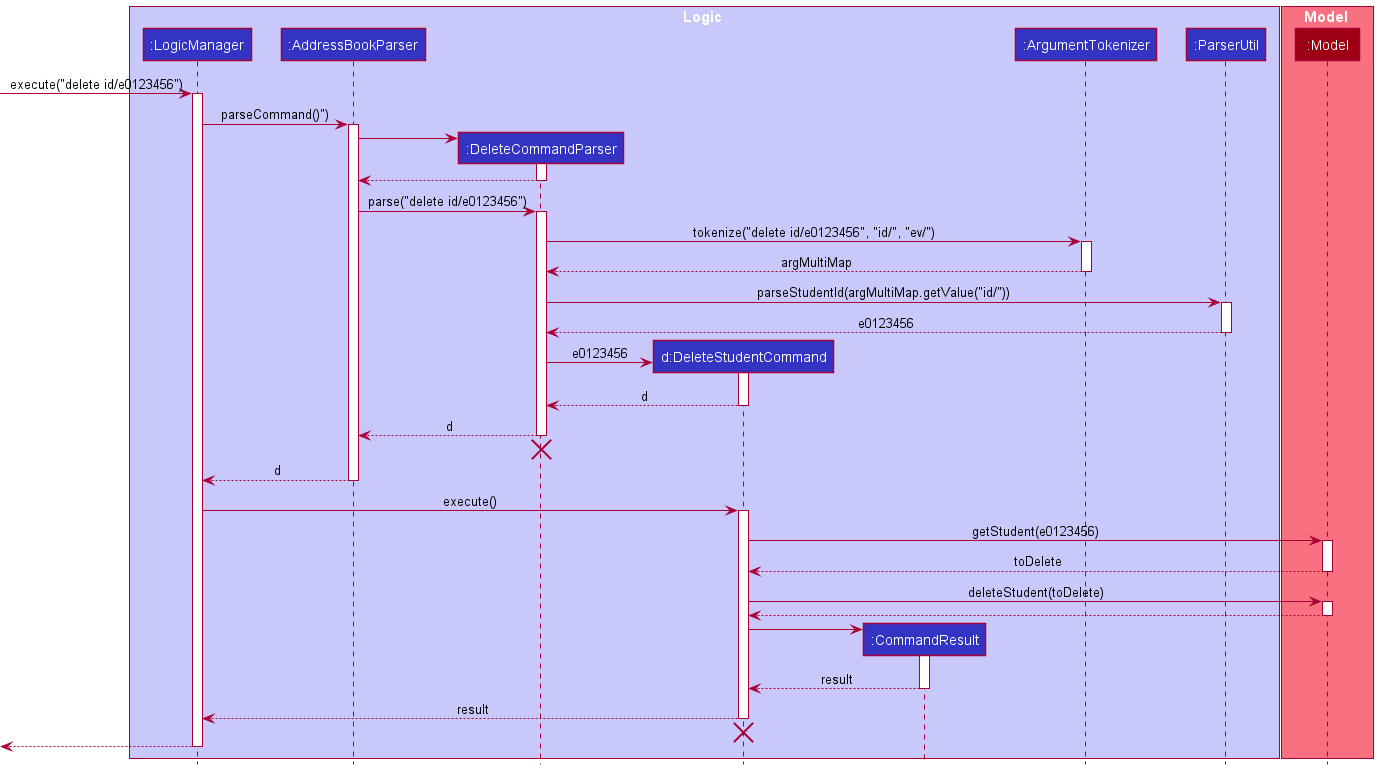
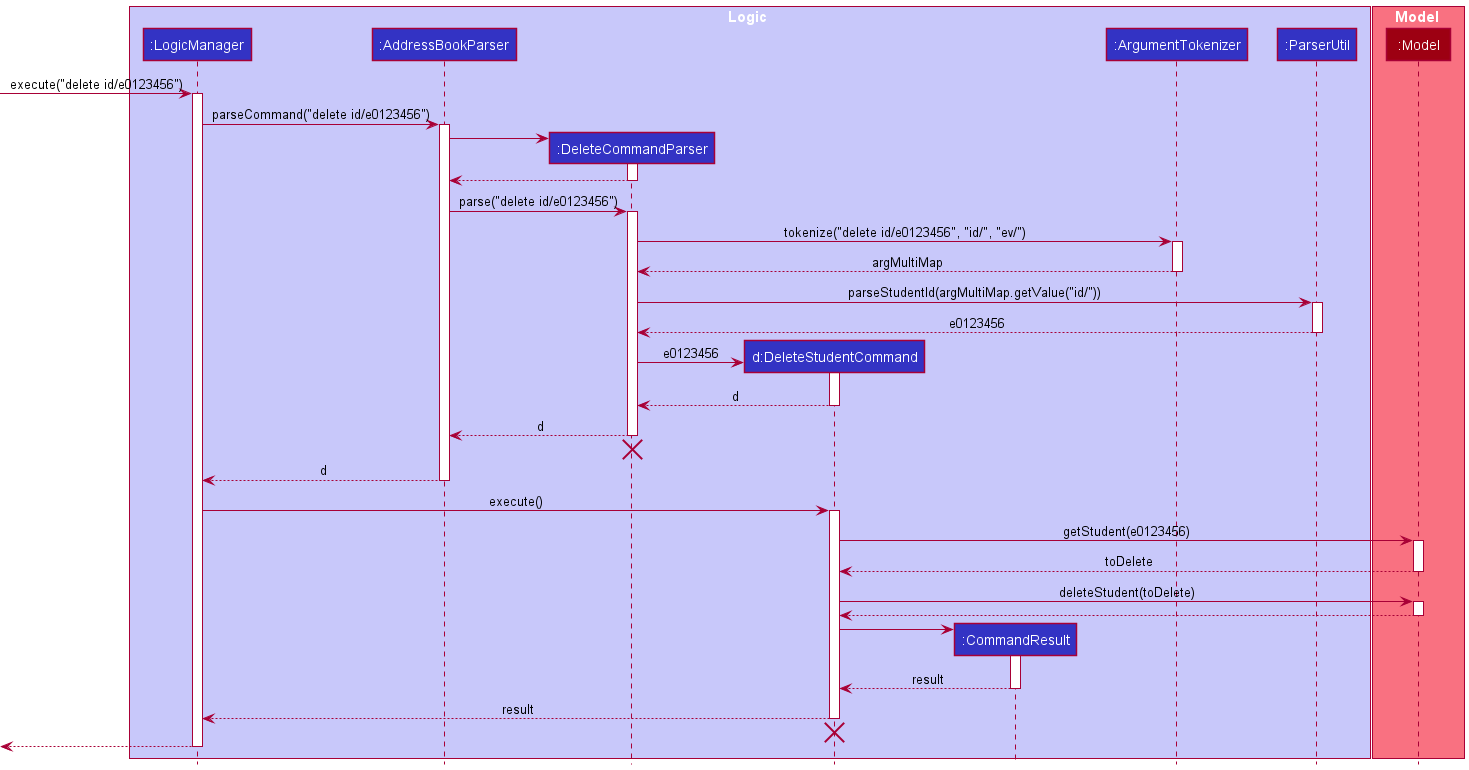
Update DG diagrams and add create feature implementation details

diff --git a/docs/DeveloperGuide.md b/docs/DeveloperGuide.md
@@ -72,7 +72,8 @@ The rest of the App consists of four components.
 
 The *Sequence Diagram* below shows how the components interact with each other for the scenario where the user issues the command `delete id/e1234567`.
 
-<img src="images/ArchitectureSequenceDiagram.png" width="574" />
+![Architecture Sequence Diagram](images/ArchitectureSequenceDiagram.png)
+_Sequence diagram of execution of delete id/e1234567_
 
 Each of the four main components (also shown in the diagram above),
 
@@ -123,7 +124,7 @@ How the `Logic` component works:
 
 The Sequence Diagram below illustrates the interactions within the `Logic` component for the `execute("delete s/e0123456")` API call.
 
-<img src="images/DeleteSequenceDiagram.png" width="600"/>
+![Delete Sequence Diagram](images/DeleteSequenceDiagram.png)
 
 <div markdown="span" class="alert alert-info">:information_source: **Note:** The lifeline for `DeleteCommandParser` should end at the destroy marker (X) but due to a limitation of PlantUML, the lifeline reaches the end of diagram.
 </div>
@@ -139,8 +140,7 @@ How the parsing works:
 ### Model component
 **API** : [`Model.java`](https://github.com/se-edu/addressbook-level3/tree/master/src/main/java/seedu/address/model/Model.java)
 
-<img src="images/ModelClassDiagram.png" width="600" />
-
+![Model Class Diagram](images/ModelClassDiagram.png)
 
 The `Model` component,
 
@@ -152,16 +152,6 @@ The `Model` component,
 * the UI is bound to these lists so the UI can automatically update when the data in either list changes.
 * stores a `UserPref` object that represents the user’s preferences. This is exposed to the outside as a `ReadOnlyUserPref` objects.
 * does not depend on any of the other three components (as the `Model` represents data entities of the domain, they should make sense on their own without depending on other components)
-
-**<<<Check if this part can delete**
-<div markdown="span" class="alert alert-info">:information_source: **Note:** An alternative (arguably, a more OOP) model is given below. It has a `Tag` list in the `AddressBook`, which `Student` references. This allows `AddressBook` to only require one `Tag` object per unique tag, instead of each `Student` needing their own `Tag` objects.<br>
-
-<img src="images/BetterModelClassDiagram.png" width="450" />
-
-**>>>**
-
-</div>
-
 
 ### Storage component
 
@@ -184,8 +174,62 @@ Classes used by multiple components are in the `nustracker.commons` package.
 
 This section describes some noteworthy details on how certain features are implemented.
 
+### Creating an event
+This is a feature to allow the user to create an event. Currently, each event has a name, date, time, participant list and blacklist. Users can specify the name, date and time of an event using the `create` command.
 
-**<<< Check if we are going to keep this `undo` feature >>>**
+This feature comes with the following classes:
+- nustracker.logic.commands.CreateCommand
+- nustracker.logic.parser.CreateCommandParser
+- nustracker.model.event.*
+
+The following sequence diagram shows how the create operation works:<br>
+
+![CreateSequenceDiagram](images/CreateSequenceDiagram.png)
+_Sequence diagram for creating an event_<br>
+
+* Note that LogicManager is called using execute("create n/Orientation d/08-01-2021 t/1000"). This information was truncated to reduce clutter in diagram.<br>
+* The event is only added if there are no other events in the model that have the same name. This is checked using the `hasEvent` method.
+
+The following sequence diagram shows how a create operation gets its arguments from the prefixes:
+
+![CreateParseArguments](images/CreateParseArguments.png)
+_Sequence diagram for parsing a create command's arguments_
+
+AddressBook contains a UniqueEventList to hold a list of events. UniqueEventList implements the [Iterable](https://docs.oracle.com/en/java/javase/11/docs/api/java.base/java/lang/Iterable.html) interface and stores events in an [ObservableList](https://docs.oracle.com/javase/10/docs/api/javafx/collections/ObservableList.html).
+
+The following sequence diagram shows how the Model adds an event to the AddressBook:
+
+![AddEventToStorageSequenceDiagram](images/AddEventToStorageSequenceDiagram.png) <br>
+_Sequence diagram for adding an event to AddressBook_
+
+* The UniqueEventList checks for duplicate events using the `hasEvent` method before adding the event.
+
+### Exporting Feature
+
+This is a feature to allow the user to export a given data field. Currently, the implementation only works for emails and can only export a csv file.
+
+This feature comes with the following classes:
+- nustracker.logic.commands.ExportCommand
+- nustracker.logic.parser.ExportCommandParser
+- nustracker.storage.Exporting
+
+The following sequence diagram shows how the export operation works:
+
+![ExportSequenceDiagram](images/ExportSequenceDiagram.png)
+_Sequence diagram for exporting_
+
+#### Design Considerations
+* **Alternative 1 (current choice)**: Parameters are passed to the Exporting class to instruct it on how and what to export. There is only 1 Exporting class with 1 method.
+    * Pros: Commands are free from clutter, and all exporting changes are done in the Exporting class (i.e. formatting the string, choosing a filetype etc.)
+    * Cons: The Exporting class might become convoluted and complicated as it gets updated in the future.
+* **Alternative 2**: Each command manages its own formatting and passes the formatted content to Exporting class.
+    * Pros: Exporting class will have a very specific purpose and is very clear.
+    * Cons: Changes to a specific filetype might incur changes in many commands. (e.g. if the way that we export csv files are changed, then every command that exports as a csv file will have to change)
+* **Alternative 3**: Exporting class is extended to accommodate for filetypes, and also does the formatting of the data.
+    * Pros: Very structured, easy to extend and add new commands that require export. Easy to add new filetypes for exporting and change which filetypes different commands use.
+    * Cons: Takes longer to implement than the other 2 options
+
+In the end the first choice was chosen as it was more structured, and take less time to implement than alternative 3. I would consider alternative 3 to be the best long term option, and would implement it as such if time permitted.
 
 ### \[Proposed\] Undo/redo feature
 
@@ -267,32 +311,7 @@ The following activity diagram summarizes what happens when a user executes a ne
 
 _{more aspects and alternatives to be added}_
 
-### Exporting Feature
 
-This is a feature to allow user to export a given data field. Currently, the implementation only works for emails and can only export a csv file.
-
-This feature comes with the following classes:
-- nustracker.logic.commands.ExportCommand
-- nustracker.logic.parser.ExportCommandParser
-- nustracker.storage.Exporting
-
-The following sequence diagram shows how the export operation works:
-
-![ExportSequenceDiagram](images/ExportSequenceDiagram.png)
-_Sequence diagram for exporting_ 
-
-#### Design Considerations
-* **Alternative 1 (current choice)**: Parameters are passed to the Exporting class to instruct it on how and what to export. There is only 1 Exporting class with 1 method.
-  * Pros: Commands are free from clutter, and all exporting changes are done in the Exporting class (i.e. formatting the string, choosing a filetype etc.)
-  * Cons: The Exporting class might become convoluted and complicated as it gets updated in the future.
-* **Alternative 2**: Each command manages its own formatting and passes the formatted content to Exporting class.
-  * Pros: Exporting class will have a very specific purpose and is very clear.
-  * Cons: Changes to a specific filetype might incur changes in many commands. (e.g. if the way that we export csv files are changed, then every command that exports as a csv file will have to change)
-* **Alternative 3**: Exporting class is extended to accommodate for filetypes, and also does the formatting of the data.
-  * Pros: Very structured, easy to extend and add new commands that require export. Easy to add new filetypes for exporting and change which filetypes different commands use.
-  * Cons: Takes longer to implement than the other 2 options
-
-In the end the first choice was chosen as it was more structured, and take less time to implement than alternative 3. I would consider alternative 3 to be the best long term option, and would implement it as such if time permitted.
 
 --------------------------------------------------------------------------------------------------------------------
 
